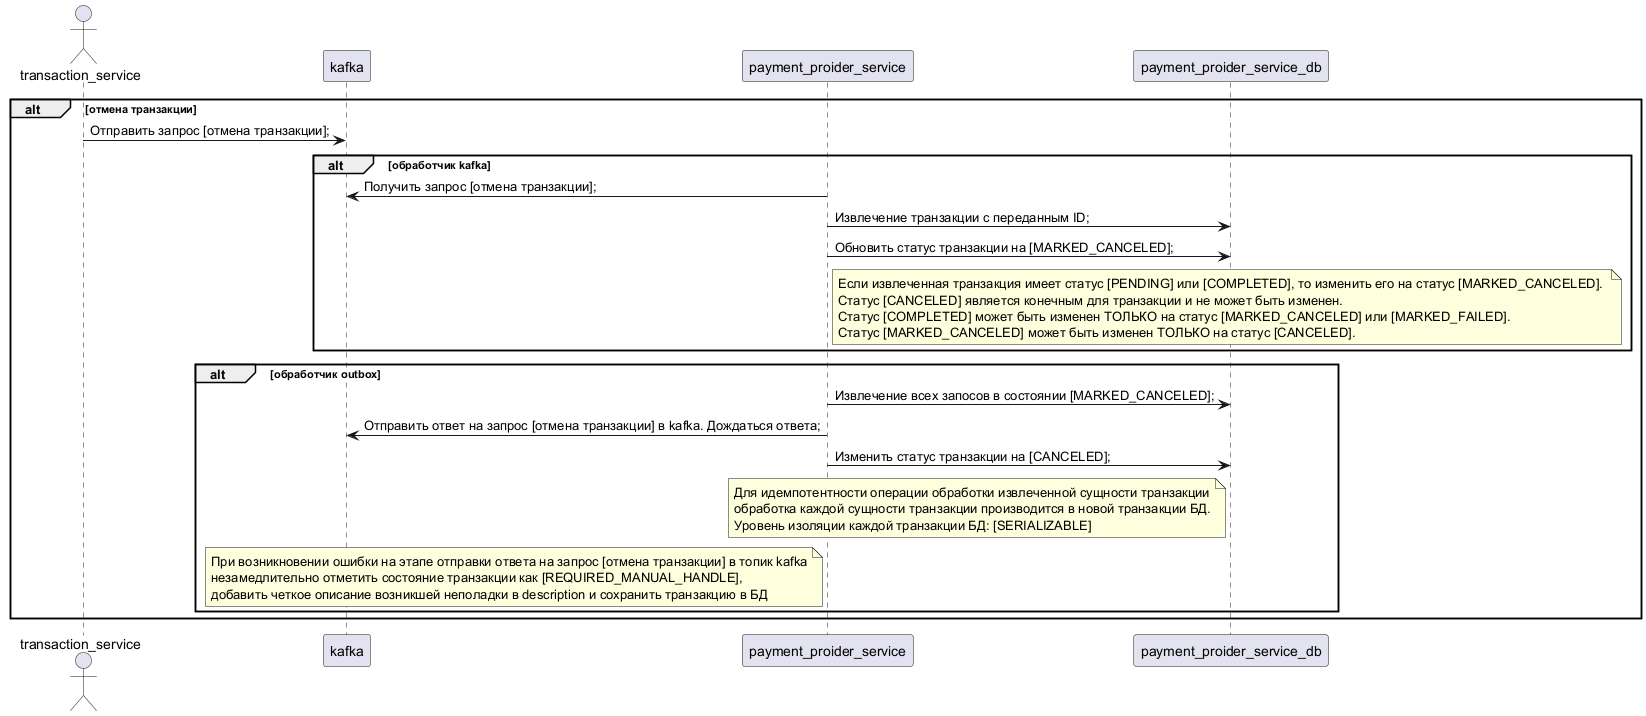
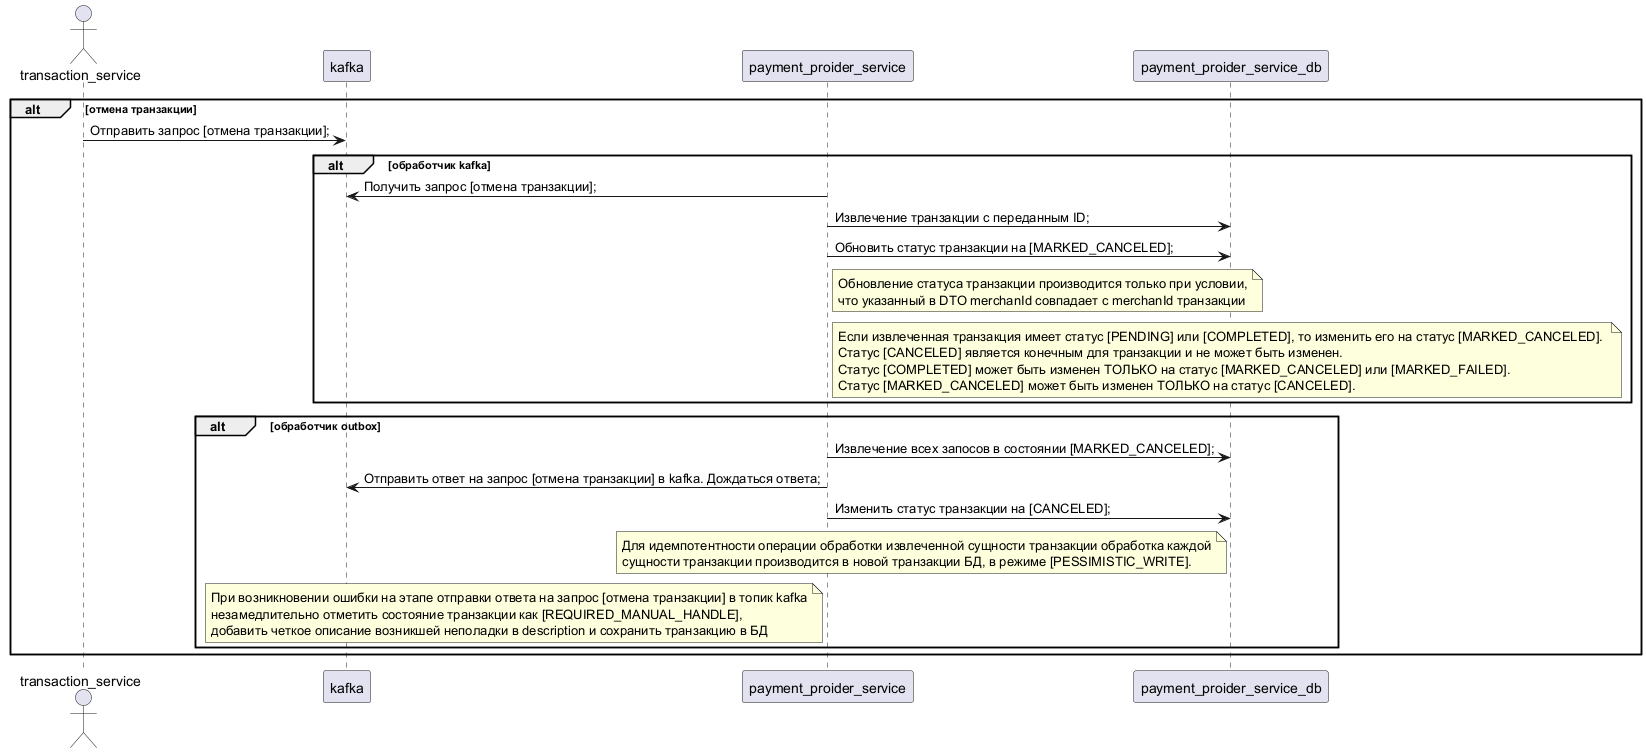
Module #5. V30_08_2026. Update UML diagrams. Updated comments.

Changed region(s): [[0.0, 0.2765, 1.0, 0.9525], [0.0, 0.0615, 1.0, 0.2765], [0.7126, 0.2765, 0.7436, 0.3073]]

diff --git a/payment-provider-service/src/main/java/aq/project/utils/handlers/TransactionHandler.java b/payment-provider-service/src/main/java/aq/project/utils/handlers/TransactionHandler.java
@@ -24,7 +24,6 @@ import lombok.extern.slf4j.Slf4j;
 import org.springframework.beans.factory.annotation.Value;
 import org.springframework.kafka.core.KafkaTemplate;
 import org.springframework.stereotype.Component;
-import org.springframework.transaction.annotation.Isolation;
 import org.springframework.transaction.annotation.Propagation;
 import org.springframework.transaction.annotation.Transactional;
 
@@ -141,7 +140,7 @@ public class TransactionHandler {
         }
     }
 
-    @Transactional(propagation = Propagation.REQUIRES_NEW, isolation = Isolation.SERIALIZABLE)
+    @Transactional(propagation = Propagation.REQUIRES_NEW)
     public void handleScheduleCreateTransaction(
             Transaction transaction
     ) {
@@ -164,7 +163,7 @@ public class TransactionHandler {
         );
     }
 
-    @Transactional(propagation = Propagation.REQUIRES_NEW, isolation = Isolation.SERIALIZABLE)
+    @Transactional(propagation = Propagation.REQUIRES_NEW)
     public void handleScheduleFailTransaction(
             Transaction transaction
     ) {
@@ -189,7 +188,7 @@ public class TransactionHandler {
         }
     }
 
-    @Transactional(propagation = Propagation.REQUIRES_NEW, isolation = Isolation.SERIALIZABLE)
+    @Transactional(propagation = Propagation.REQUIRES_NEW)
     public void handleScheduleCancelTransaction(
             Transaction transaction
     ) {
